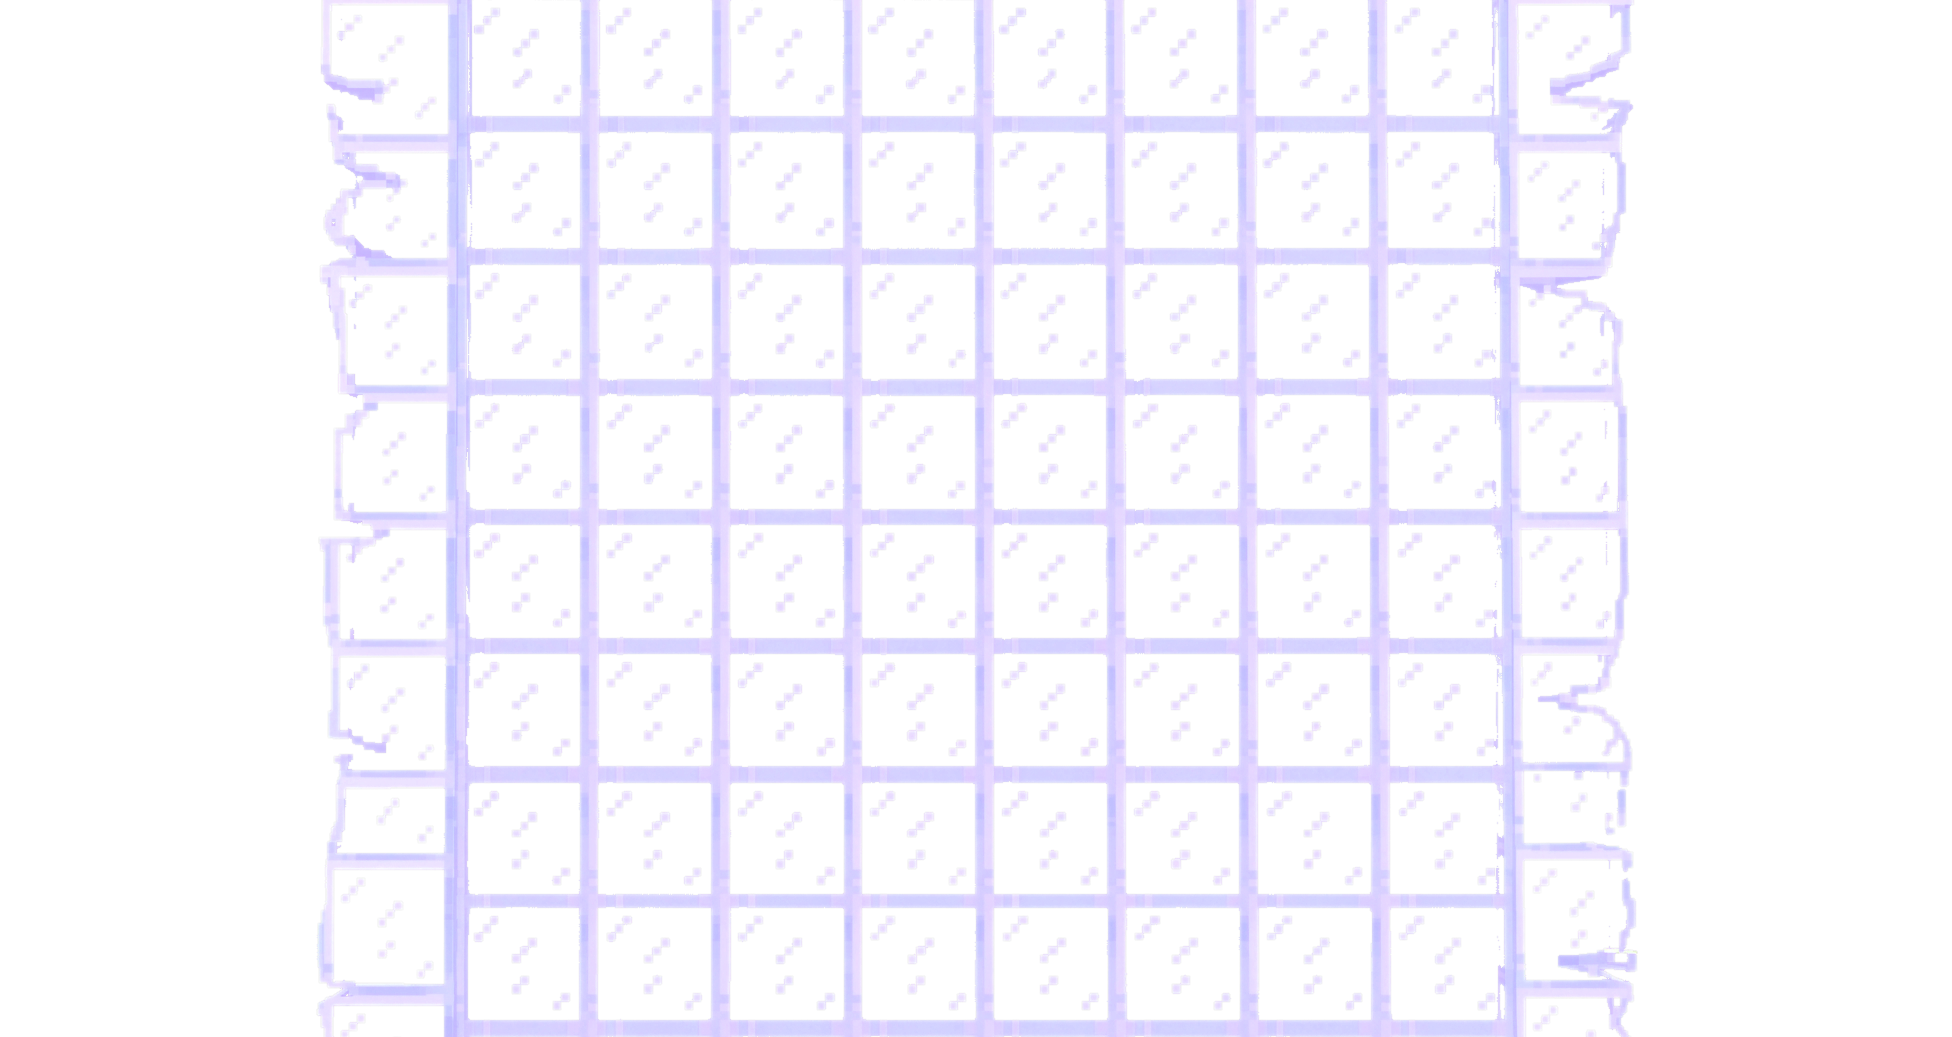
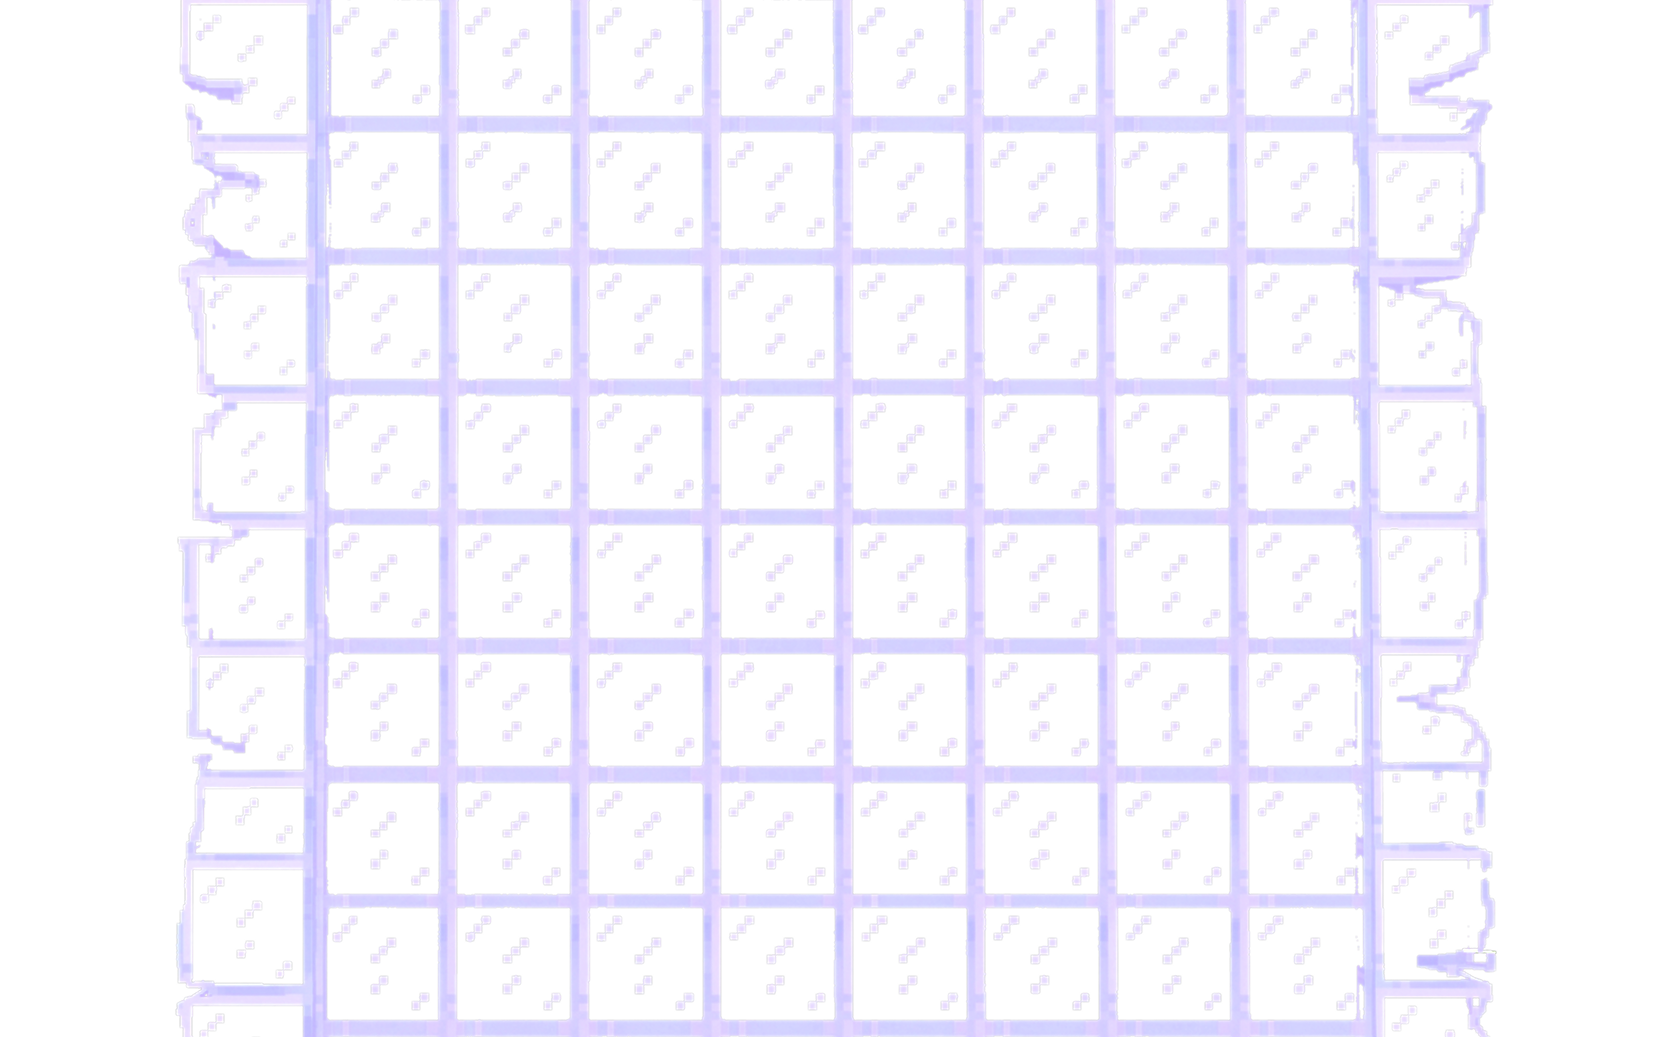
v4g: font-size selector, text-align setting, refreshed papyrus PNGs
- Editor toolbars: add "Tamaño" <select> with 6 sizes (0.8em - 1.6em).
  applyFontSize() wraps the current selection in <span style="font-size">
  so the admin can resize chunks of text without affecting the rest.
- New admin setting: Alineación del texto (justify | center | left).
  Persisted as data.textAlign, applied to .letter-content inline style on
  both the user view and the admin preview. Live-updates the preview as
  soon as the admin changes the dropdown (before saving), so the admin
  can compare center vs justify side by side.
- Refresh the 3 papyrus PNGs from the Figma export in ../transparent-image
  (the letter/ folder had stale versions from 12:53; the new ones don't
  have the extra empty space the admin flagged in the screenshot).

Changed region(s): [[0.0933, 0.0, 0.4665, 1.0], [0.5287, 0.0, 0.9019, 1.0], [0.0933, 0.0, 0.1244, 0.0309]]

diff --git a/index.html b/index.html
@@ -107,6 +107,14 @@ input:focus{border-color:rgba(139,92,246,.8);box-shadow:0 0 0 4px rgba(139,92,24
   transition:.15s;
 }
 .toolbar button:hover{background:rgba(139,92,246,.3)}
+.toolbar select{
+  height:36px;border:none;border-radius:8px;
+  background:rgba(255,255,255,.08);color:#fff;cursor:pointer;
+  padding:0 8px;font-size:.82rem;outline:none;
+  transition:.15s;
+}
+.toolbar select:hover{background:rgba(139,92,246,.3)}
+.toolbar select option{background:#1f1b3a;color:#fff}
 
 .richtext{
   min-height:200px;max-height:500px;overflow-y:auto;
@@ -572,6 +580,15 @@ input[type=file]{display:none}
         <button onclick="addHR('letter-editor')" title="Separador">&#8213;</button>
         <button onclick="addLink('letter-editor')" title="Enlace">&#128279;</button>
         <button onclick="addImage('letter-editor')" title="Imagen">&#128247;</button>
+        <select title="Tamaño de texto" onchange="applyFontSize(this,'letter-editor')">
+          <option value="">Tamaño</option>
+          <option value="0.8em">Muy pequeño</option>
+          <option value="0.9em">Pequeño</option>
+          <option value="1em">Normal</option>
+          <option value="1.15em">Grande</option>
+          <option value="1.3em">Muy grande</option>
+          <option value="1.6em">Enorme</option>
+        </select>
       </div>
       <input type="file" id="img-letter-editor" accept="image/*" onchange="insertImage(this,'letter-editor')">
       <div id="letter-editor" class="richtext" contenteditable="true" style="min-height:420px;max-height:65vh"></div>
@@ -590,6 +607,15 @@ input[type=file]{display:none}
         <button onclick="addHeading('disc-editor')" title="Título">H</button>
         <button onclick="addLink('disc-editor')" title="Enlace">&#128279;</button>
         <button onclick="addImage('disc-editor')" title="Imagen">&#128247;</button>
+        <select title="Tamaño de texto" onchange="applyFontSize(this,'disc-editor')">
+          <option value="">Tamaño</option>
+          <option value="0.8em">Muy pequeño</option>
+          <option value="0.9em">Pequeño</option>
+          <option value="1em">Normal</option>
+          <option value="1.15em">Grande</option>
+          <option value="1.3em">Muy grande</option>
+          <option value="1.6em">Enorme</option>
+        </select>
       </div>
       <input type="file" id="img-disc-editor" accept="image/*" onchange="insertImage(this,'disc-editor')">
       <div id="disc-editor" class="richtext" contenteditable="true"></div>
@@ -624,6 +650,15 @@ input[type=file]{display:none}
         <label>Código de acceso para el usuario</label>
         <input type="text" id="user-code-input" placeholder="Código de usuario">
       </div>
+      <div class="field">
+        <label>Alineación del texto de la carta</label>
+        <select id="text-align-select" style="width:100%;padding:12px 14px;border-radius:12px;background:rgba(255,255,255,.06);border:2px solid rgba(255,255,255,.15);color:#fff;font-size:.95rem;outline:none">
+          <option value="justify">Justificado</option>
+          <option value="center">Centrado</option>
+          <option value="left">Izquierda</option>
+        </select>
+        <div style="font-size:.78rem;color:var(--muted);margin-top:6px">Cambia cómo se ve el texto en la carta (vista de usuario y vista previa).</div>
+      </div>
       <div class="toggle-row danger-section">
         <div>
           <label style="color:var(--err);font-weight:600">Desactivar página</label>
@@ -650,7 +685,7 @@ input[type=file]{display:none}
 <script>
 var GITHUB_API = "https://api.github.com/repos/AndresRomero2001/letter/contents/data.json";
[1 lines of base64/hex data omitted]
-var ENC_ADMIN_TOKEN = "3895516629b8db1dff2402c93a86e7ec:4166961b294989df03bdaba2:2aeae384ea77ef2559bed6098aea1b7e:c7e9f0b5037f455c14ef3d17d75c7ff93264742a3fb6b31a830479198b04b4d93c08ed3dad66e045";
+var ENC_ADMIN_TOKEN = "e6434c29f478ff00b56ccac3ff34c61e:889510addb669f992b27c0ab:db9126f4e8b09cd683b05daa15bc7288:d38147f52edf222760f7d962243de382893a7882a3b5033d7a84fd77a9d960ae76e57712ba6a576c";
 var ACCEPT_KEY = "letter_accepted_v1";
 
 var data = null;
@@ -909,7 +944,9 @@ var maxPercentSession = 0;
 var lastSavedPercent = 0;
 
 function openLetter(){
-  document.getElementById("letter-content").innerHTML = data.letter || "";
+  var lc = document.getElementById("letter-content");
+  lc.innerHTML = data.letter || "";
+  lc.style.textAlign = data.textAlign || "justify";
   var p = (data.progress && data.progress.lastPercent) || 0;
   var maxP = (data.progress && data.progress.maxPercent) || 0;
   maxPercentSession = maxP;
@@ -1022,13 +1059,16 @@ function throttle(fn, wait){
 function renderAdmin(){
   document.getElementById("letter-editor").innerHTML = data.letter || "";
   document.getElementById("disc-editor").innerHTML = data.disclaimer || "";
-  document.getElementById("admin-letter-content").innerHTML = data.letter || "";
+  var adminLetter = document.getElementById("admin-letter-content");
+  adminLetter.innerHTML = data.letter || "";
+  adminLetter.style.textAlign = data.textAlign || "justify";
   document.getElementById("admin-disclaimer-content").innerHTML = data.disclaimer || "";
   var maxP = (data.progress && data.progress.maxPercent) || 0;
   document.getElementById("admin-progress-inner").style.width = maxP.toFixed(1)+"%";
   document.getElementById("admin-progress-label").textContent = Math.round(maxP)+"%";
   document.getElementById("admin-max-progress").textContent = Math.round(maxP)+"%";
   document.getElementById("user-code-input").value = data.userCode || "";
+  document.getElementById("text-align-select").value = data.textAlign || "justify";
   document.getElementById("page-disabled-toggle").checked = !!data.pageDisabled;
   renderLogs();
 }
@@ -1042,6 +1082,31 @@ function addParagraph(id){ focusEditor(id); document.execCommand("formatBlock",f
 function addHR(id){ focusEditor(id); document.execCommand("insertHorizontalRule",false,null); }
 function addLink(id){ var u = prompt("URL del enlace:"); if(u){ focusEditor(id); document.execCommand("createLink",false,u); } }
 function addImage(id){ activeEditor=id; document.getElementById("img-"+id).click(); }
+/* Wrap the current selection in <span style="font-size:X"> so the user can
+   resize chunks of text to whatever size they want. If nothing is selected
+   (or selection is outside the editor), do nothing. */
+function applyFontSize(sel, editorId){
+  var size = sel.value;
+  sel.selectedIndex = 0; // reset to "Tamaño" label
+  if(!size) return;
+  var editor = document.getElementById(editorId);
+  if(!editor) return;
+  var selection = window.getSelection();
+  if(!selection || selection.rangeCount===0) return;
+  var range = selection.getRangeAt(0);
+  // Make sure the selection is inside this editor
+  if(!editor.contains(range.commonAncestorContainer)){ editor.focus(); return; }
+  if(range.collapsed) return; // no text selected
+  var span = document.createElement("span");
+  span.style.fontSize = size;
+  try{
+    span.appendChild(range.extractContents());
+    range.insertNode(span);
+    // Re-select the inserted span so the user can see what changed
+    selection.removeAllRanges();
+    var r = document.createRange(); r.selectNodeContents(span); selection.addRange(r);
+  }catch(e){ console.warn("applyFontSize failed",e); }
+}
 function compressImage(file,maxW,quality,cb){
   var rd = new FileReader();
   rd.onload = function(e){
@@ -1150,6 +1215,11 @@ function saveSettings(){
   var oldCode = data.userCode;
   data.userCode = newCode;
   data.pageDisabled = document.getElementById("page-disabled-toggle").checked;
+  data.textAlign = document.getElementById("text-align-select").value || "justify";
+  // Live-update the admin preview so the admin can compare center vs justify
+  // without switching tabs.
+  var adminLetter = document.getElementById("admin-letter-content");
+  if(adminLetter) adminLetter.style.textAlign = data.textAlign;
   var chain;
   if(newCode !== oldCode){
     // Re-encrypt the user token with the new code
@@ -1259,8 +1329,22 @@ document.addEventListener("click", function(e){
   var panel = document.getElementById("panel-"+name);
   if(panel) panel.classList.remove("hidden");
   if(name==="logs") refreshLogs();
-  if(name==="view-letter") document.getElementById("admin-letter-content").innerHTML = data.letter||"";
+  if(name==="view-letter"){
+    var al = document.getElementById("admin-letter-content");
+    al.innerHTML = data.letter||"";
+    al.style.textAlign = data.textAlign || "justify";
+  }
   if(name==="view-disclaimer") document.getElementById("admin-disclaimer-content").innerHTML = data.disclaimer||"";
+});
+
+/* Live-preview the alignment in the admin when the admin picks a new option
+   in the settings tab — the change isn't persisted until "Guardar", but the
+   "Ver carta" preview updates instantly so the admin can compare. */
+document.addEventListener("change", function(e){
+  if(e.target && e.target.id === "text-align-select"){
+    var al = document.getElementById("admin-letter-content");
+    if(al) al.style.textAlign = e.target.value || "justify";
+  }
 });
 
 // ── Logout / navigation ─────────────────────────────────────────────

diff --git a/setup.js b/setup.js
@@ -73,6 +73,7 @@ if (fs.existsSync(dataPath) && !process.argv.includes("--force-data")) {
     encUserToken: encUserToken,
     disclaimer: DEFAULT_DISCLAIMER,
     letter: DEFAULT_LETTER,
+    textAlign: "justify",
     pageDisabled: false,
     progress: { maxPercent: 0, lastPercent: 0, lastUpdated: "" },
     logs: []
@@ -192,6 +193,14 @@ input:focus{border-color:rgba(139,92,246,.8);box-shadow:0 0 0 4px rgba(139,92,24
   transition:.15s;
 }
 .toolbar button:hover{background:rgba(139,92,246,.3)}
+.toolbar select{
+  height:36px;border:none;border-radius:8px;
+  background:rgba(255,255,255,.08);color:#fff;cursor:pointer;
+  padding:0 8px;font-size:.82rem;outline:none;
+  transition:.15s;
+}
+.toolbar select:hover{background:rgba(139,92,246,.3)}
+.toolbar select option{background:#1f1b3a;color:#fff}
 
 .richtext{
   min-height:200px;max-height:500px;overflow-y:auto;
@@ -657,6 +666,15 @@ input[type=file]{display:none}
         <button onclick="addHR('letter-editor')" title="Separador">&#8213;</button>
         <button onclick="addLink('letter-editor')" title="Enlace">&#128279;</button>
         <button onclick="addImage('letter-editor')" title="Imagen">&#128247;</button>
+        <select title="Tamaño de texto" onchange="applyFontSize(this,'letter-editor')">
+          <option value="">Tamaño</option>
+          <option value="0.8em">Muy pequeño</option>
+          <option value="0.9em">Pequeño</option>
+          <option value="1em">Normal</option>
+          <option value="1.15em">Grande</option>
+          <option value="1.3em">Muy grande</option>
+          <option value="1.6em">Enorme</option>
+        </select>
       </div>
       <input type="file" id="img-letter-editor" accept="image/*" onchange="insertImage(this,'letter-editor')">
       <div id="letter-editor" class="richtext" contenteditable="true" style="min-height:420px;max-height:65vh"></div>
@@ -675,6 +693,15 @@ input[type=file]{display:none}
         <button onclick="addHeading('disc-editor')" title="Título">H</button>
         <button onclick="addLink('disc-editor')" title="Enlace">&#128279;</button>
         <button onclick="addImage('disc-editor')" title="Imagen">&#128247;</button>
+        <select title="Tamaño de texto" onchange="applyFontSize(this,'disc-editor')">
+          <option value="">Tamaño</option>
+          <option value="0.8em">Muy pequeño</option>
+          <option value="0.9em">Pequeño</option>
+          <option value="1em">Normal</option>
+          <option value="1.15em">Grande</option>
+          <option value="1.3em">Muy grande</option>
+          <option value="1.6em">Enorme</option>
+        </select>
       </div>
       <input type="file" id="img-disc-editor" accept="image/*" onchange="insertImage(this,'disc-editor')">
       <div id="disc-editor" class="richtext" contenteditable="true"></div>
@@ -708,6 +735,15 @@ input[type=file]{display:none}
       <div class="field">
         <label>Código de acceso para el usuario</label>
         <input type="text" id="user-code-input" placeholder="Código de usuario">
+      </div>
+      <div class="field">
+        <label>Alineación del texto de la carta</label>
+        <select id="text-align-select" style="width:100%;padding:12px 14px;border-radius:12px;background:rgba(255,255,255,.06);border:2px solid rgba(255,255,255,.15);color:#fff;font-size:.95rem;outline:none">
+          <option value="justify">Justificado</option>
+          <option value="center">Centrado</option>
+          <option value="left">Izquierda</option>
+        </select>
+        <div style="font-size:.78rem;color:var(--muted);margin-top:6px">Cambia cómo se ve el texto en la carta (vista de usuario y vista previa).</div>
       </div>
       <div class="toggle-row danger-section">
         <div>
@@ -994,7 +1030,9 @@ var maxPercentSession = 0;
 var lastSavedPercent = 0;
 
 function openLetter(){
-  document.getElementById("letter-content").innerHTML = data.letter || "";
+  var lc = document.getElementById("letter-content");
+  lc.innerHTML = data.letter || "";
+  lc.style.textAlign = data.textAlign || "justify";
   var p = (data.progress && data.progress.lastPercent) || 0;
   var maxP = (data.progress && data.progress.maxPercent) || 0;
   maxPercentSession = maxP;
@@ -1107,13 +1145,16 @@ function throttle(fn, wait){
 function renderAdmin(){
   document.getElementById("letter-editor").innerHTML = data.letter || "";
   document.getElementById("disc-editor").innerHTML = data.disclaimer || "";
-  document.getElementById("admin-letter-content").innerHTML = data.letter || "";
+  var adminLetter = document.getElementById("admin-letter-content");
+  adminLetter.innerHTML = data.letter || "";
+  adminLetter.style.textAlign = data.textAlign || "justify";
   document.getElementById("admin-disclaimer-content").innerHTML = data.disclaimer || "";
   var maxP = (data.progress && data.progress.maxPercent) || 0;
   document.getElementById("admin-progress-inner").style.width = maxP.toFixed(1)+"%";
   document.getElementById("admin-progress-label").textContent = Math.round(maxP)+"%";
   document.getElementById("admin-max-progress").textContent = Math.round(maxP)+"%";
   document.getElementById("user-code-input").value = data.userCode || "";
+  document.getElementById("text-align-select").value = data.textAlign || "justify";
   document.getElementById("page-disabled-toggle").checked = !!data.pageDisabled;
   renderLogs();
 }
@@ -1127,6 +1168,31 @@ function addParagraph(id){ focusEditor(id); document.execCommand("formatBlock",f
 function addHR(id){ focusEditor(id); document.execCommand("insertHorizontalRule",false,null); }
 function addLink(id){ var u = prompt("URL del enlace:"); if(u){ focusEditor(id); document.execCommand("createLink",false,u); } }
 function addImage(id){ activeEditor=id; document.getElementById("img-"+id).click(); }
+/* Wrap the current selection in <span style="font-size:X"> so the user can
+   resize chunks of text to whatever size they want. If nothing is selected
+   (or selection is outside the editor), do nothing. */
+function applyFontSize(sel, editorId){
+  var size = sel.value;
+  sel.selectedIndex = 0; // reset to "Tamaño" label
+  if(!size) return;
+  var editor = document.getElementById(editorId);
+  if(!editor) return;
+  var selection = window.getSelection();
+  if(!selection || selection.rangeCount===0) return;
+  var range = selection.getRangeAt(0);
+  // Make sure the selection is inside this editor
+  if(!editor.contains(range.commonAncestorContainer)){ editor.focus(); return; }
+  if(range.collapsed) return; // no text selected
+  var span = document.createElement("span");
+  span.style.fontSize = size;
+  try{
+    span.appendChild(range.extractContents());
+    range.insertNode(span);
+    // Re-select the inserted span so the user can see what changed
+    selection.removeAllRanges();
+    var r = document.createRange(); r.selectNodeContents(span); selection.addRange(r);
+  }catch(e){ console.warn("applyFontSize failed",e); }
+}
 function compressImage(file,maxW,quality,cb){
   var rd = new FileReader();
   rd.onload = function(e){
@@ -1235,6 +1301,11 @@ function saveSettings(){
   var oldCode = data.userCode;
   data.userCode = newCode;
   data.pageDisabled = document.getElementById("page-disabled-toggle").checked;
+  data.textAlign = document.getElementById("text-align-select").value || "justify";
+  // Live-update the admin preview so the admin can compare center vs justify
+  // without switching tabs.
+  var adminLetter = document.getElementById("admin-letter-content");
+  if(adminLetter) adminLetter.style.textAlign = data.textAlign;
   var chain;
   if(newCode !== oldCode){
     // Re-encrypt the user token with the new code
@@ -1344,8 +1415,22 @@ document.addEventListener("click", function(e){
   var panel = document.getElementById("panel-"+name);
   if(panel) panel.classList.remove("hidden");
   if(name==="logs") refreshLogs();
-  if(name==="view-letter") document.getElementById("admin-letter-content").innerHTML = data.letter||"";
+  if(name==="view-letter"){
+    var al = document.getElementById("admin-letter-content");
+    al.innerHTML = data.letter||"";
+    al.style.textAlign = data.textAlign || "justify";
+  }
   if(name==="view-disclaimer") document.getElementById("admin-disclaimer-content").innerHTML = data.disclaimer||"";
+});
+
+/* Live-preview the alignment in the admin when the admin picks a new option
+   in the settings tab — the change isn't persisted until "Guardar", but the
+   "Ver carta" preview updates instantly so the admin can compare. */
+document.addEventListener("change", function(e){
+  if(e.target && e.target.id === "text-align-select"){
+    var al = document.getElementById("admin-letter-content");
+    if(al) al.style.textAlign = e.target.value || "justify";
+  }
 });
 
 // ── Logout / navigation ─────────────────────────────────────────────
